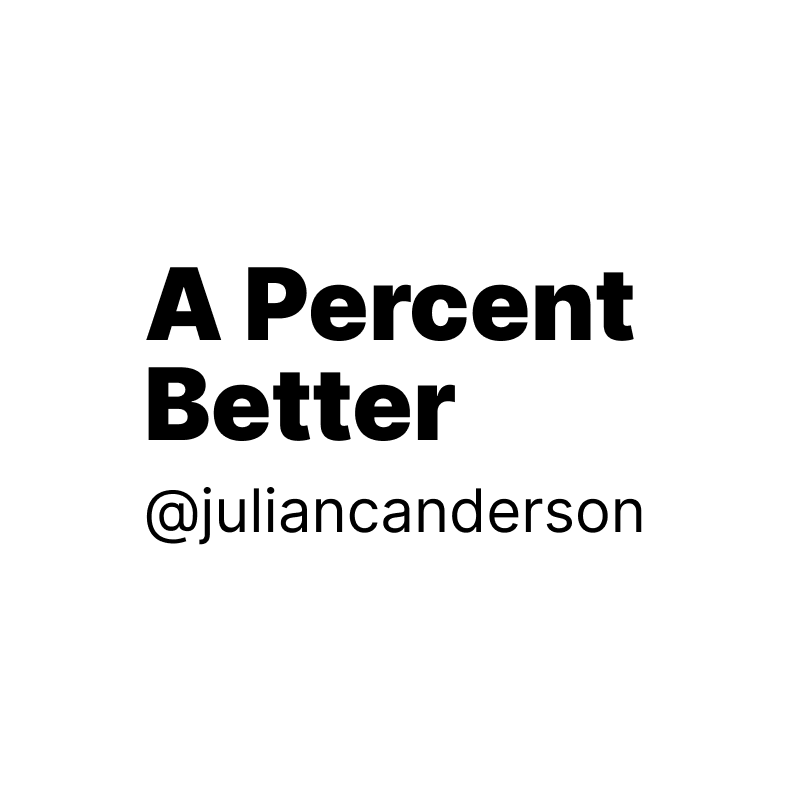
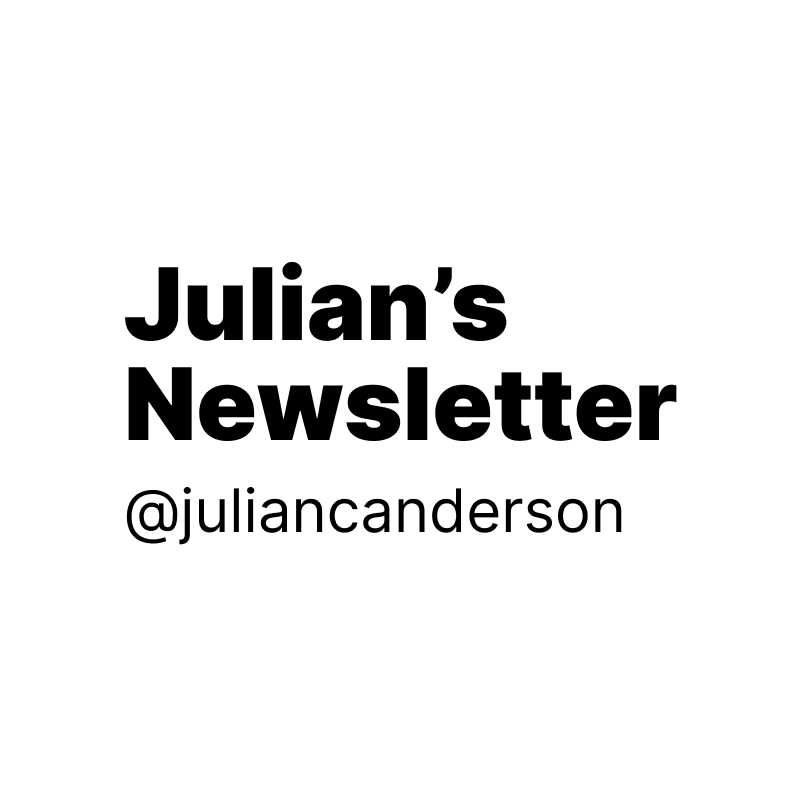
moving to Substack for now, adding new Twitter Card

Changed region(s): [[0.1562, 0.3125, 0.8438, 0.5625], [0.1562, 0.5938, 0.8125, 0.6875]]

diff --git a/src/components/Subscribe/index.js b/src/components/Subscribe/index.js
@@ -1,47 +1,29 @@
 import React from 'react'
 import PropTypes from 'prop-types'
-import { Link } from 'gatsby'
-import { css } from '@emotion/core'
 
 import { StyledSection, Container, Heading, Subheading } from './styles'
-import { Form } from '@components'
 
 export const Subscribe = ({ subscribePage, newsletterRef }) => {
   return (
     <StyledSection>
       <Container subscribePage={subscribePage} ref={newsletterRef}>
-        <Heading>
-          I have a newsletter called <br />
-          <Link
-            css={css`
-              text-decoration: none;
-              position: relative;
-              color: #1c1c1c;
-              z-index: 0;
-              height: 100%;
-              width: 100%;
-              background: #2ed1a2;
-              padding: 2px 3px;
-              border-radius: 3px;
-            `}
-            to="/blog"
-          >
-            A Percent Better
-          </Link>
-          .{' '}
-          <br
-            css={css`
-              @media (min-width: 700px) {
-                display: none;
-              }
-            `}
-          />
-          I think you might enjoy it.
-        </Heading>
+        <Heading>You can subscribe for future posts here.</Heading>
         <Subheading>
           I won't send you any spam. You can unsubscribe at any time.
         </Subheading>
-        <Form />
+        {/* https://www.reddit.com/r/Substack/comments/gldo52/has_anyone_created_a_custom_landing_page_for/ */}
+        <iframe
+          src="https://juliancanderson.substack.com/embed"
+          width="320"
+          height="80"
+          frameborder="0"
+          scrolling="no"
+          title="substack"
+          style={{
+            marginLeft: '-20px',
+            marginTop: '20px',
+          }}
+        ></iframe>
       </Container>
     </StyledSection>
   )

diff --git a/src/components/Layout/index.js b/src/components/Layout/index.js
@@ -10,6 +10,7 @@ import { Global, css } from '@emotion/core'
 
 // import { GlobalStyle, lightTheme, darkTheme } from './styles'
 import { GlobalStyle, lightTheme } from './styles'
+import TwitterCard from '../../images/twitter-card.png'
 
 export const Layout = ({ children }) => {
   // const { dark: isDark } = useTheme()
@@ -46,10 +47,7 @@ export const Layout = ({ children }) => {
           href="https://fonts.googleapis.com/css2?family=Inter:wght@100;200;300;400;500;600;700;800;900&display=swap"
           rel="stylesheet"
         ></link>
-        <meta
-          name="twitter:image"
-          content="https://res.cloudinary.com/dpqchalu9/image/upload/v1579490419/personal-web/twitter-card_dnvixf.png"
-        />
+        <meta name="twitter:image" content={TwitterCard} />
         <meta
           name="keywords"
           content="frontend engineer, frontend developer, julian, julian christian anderson, juliancanderson, personal website, javascript developer, software engineer, web developer"

diff --git a/src/templates/BlogPost/index.js b/src/templates/BlogPost/index.js
@@ -6,6 +6,7 @@ import { Helmet } from 'react-helmet'
 import { Layout, Header, Subscribe, Footer } from '@components'
 import { DarkModeProvider } from '../../Context/theme'
 import { ContentWrapper, Title, Container } from './styles'
+import TwitterCard from '../../images/twitter-card.png'
 
 const BlogPostTemplate = ({ data, pageContext }) => {
   const post = data.markdownRemark
@@ -22,10 +23,7 @@ const BlogPostTemplate = ({ data, pageContext }) => {
             name="twitter:description"
             content={post.frontmatter.description}
           />
-          <meta
-            name="twitter:image"
-            content="https://res.cloudinary.com/dpqchalu9/image/upload/v1579490419/personal-web/twitter-card_dnvixf.png"
-          />
+          <meta name="twitter:image" content={TwitterCard} />
         </Helmet>
         <Header isReady={true} blogPost newsletterRef={newsletterRef} />
         <Container>
